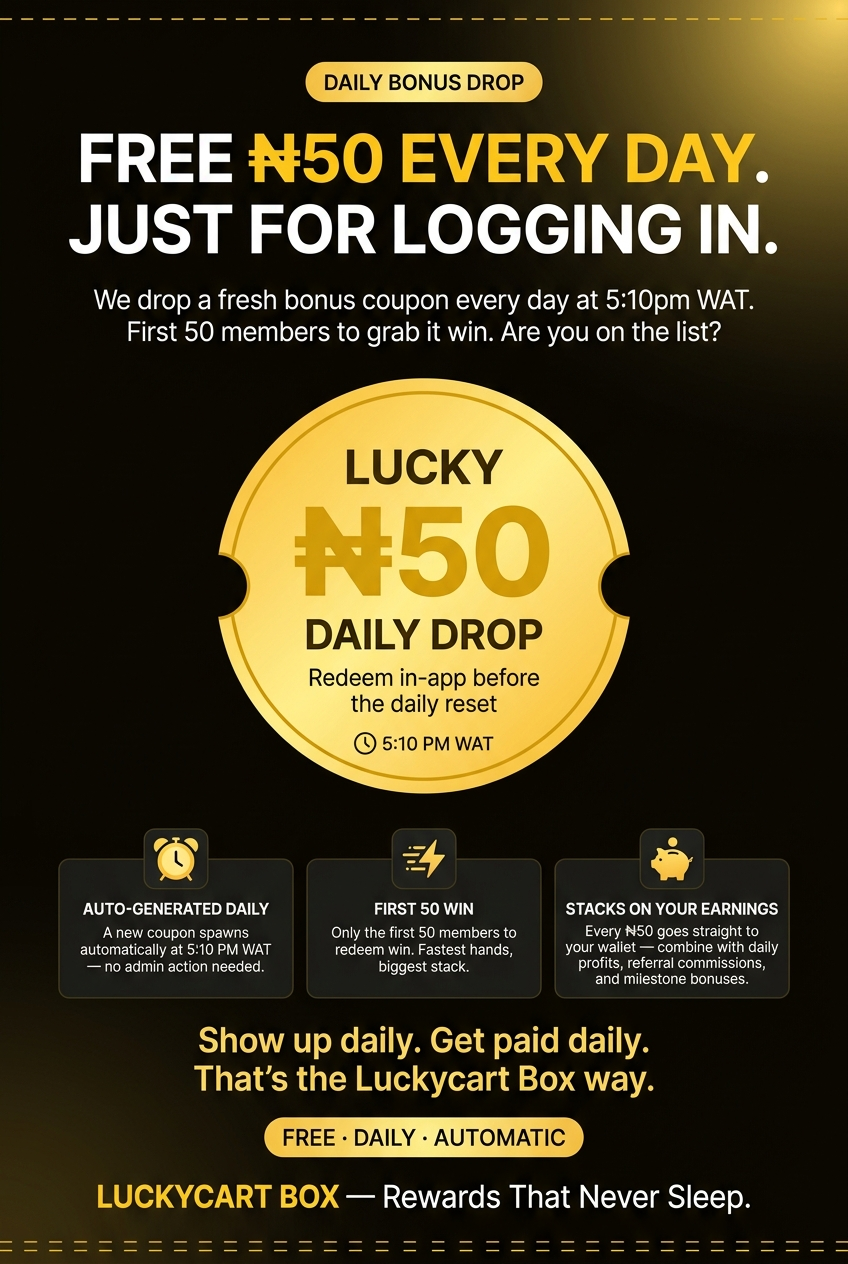
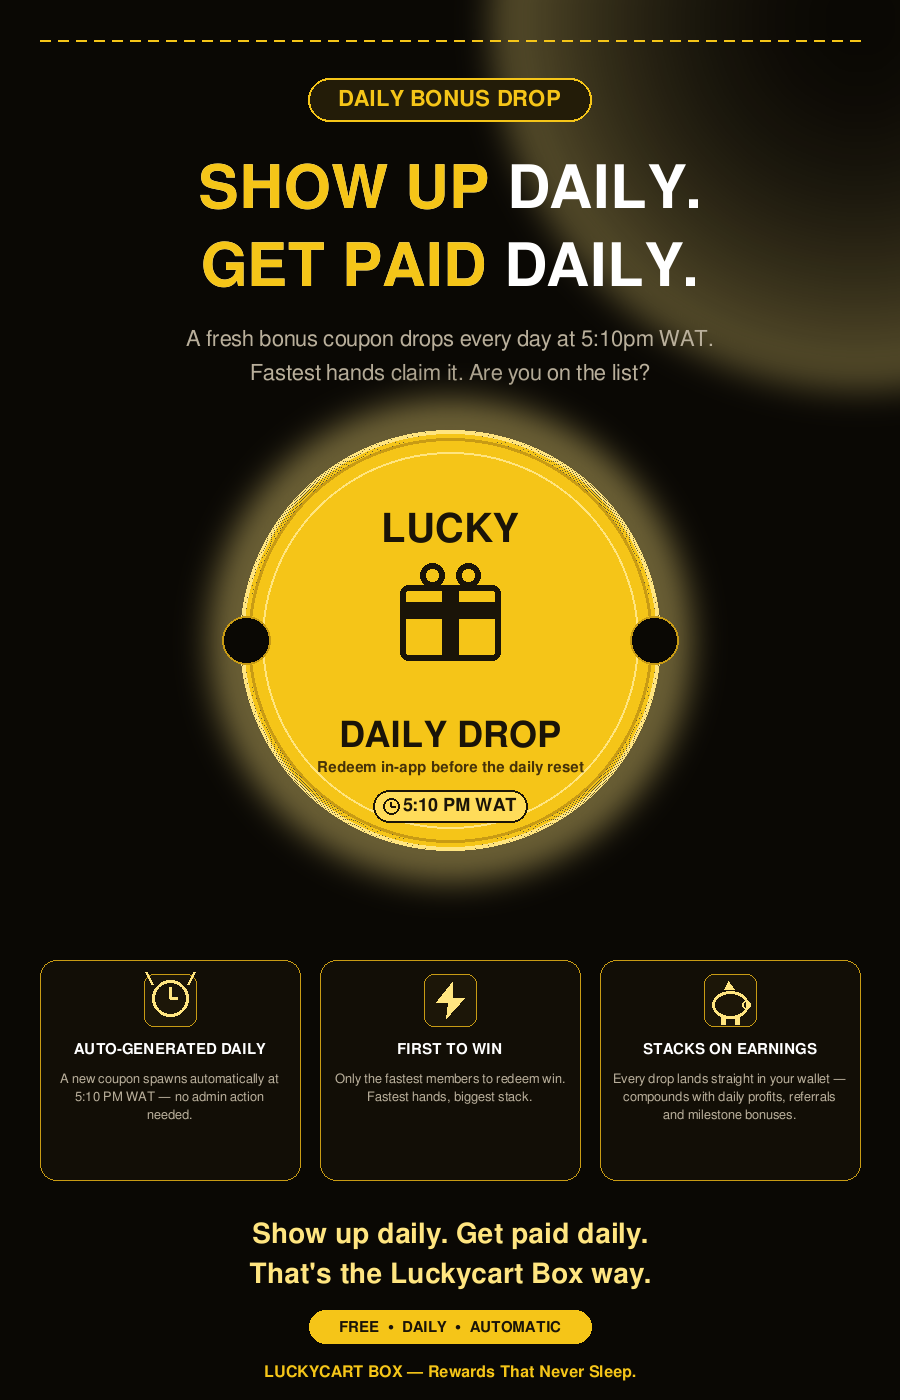
auto-commit for 5e001a3c-c507-4ebd-9de1-6f0cb7676483

diff --git a/render_daily_bonus_flyer.py b/render_daily_bonus_flyer.py
@@ -1,0 +1,291 @@
+"""
+render_daily_bonus_flyer.py
+--------------------------------------------------------------
+Deterministic Pillow renderer for the "Daily Bonus Drop" flyer.
+
+Design decision: the previous AI-generated version hard-coded
+"₦50" everywhere, which anchors users to a fixed number and
+locks the ops team out of adjusting the coupon amount. This
+version keeps every callout amount-agnostic — the actual naira
+value only lives in Admin Settings and shows up in-app on the
+Dashboard's DailyBonusCard.
+
+Output: /app/generated_flyers/luckycart_08_daily_bonus.png
+"""
+from pathlib import Path
+from PIL import Image, ImageDraw, ImageFilter
+
+OUT = Path("/app/generated_flyers/luckycart_08_daily_bonus.png")
+W, H = 900, 1400
+BG = (10, 8, 4)
+CARD = (18, 14, 6)
+GOLD = (245, 197, 24)
+GOLD_LIGHT = (255, 229, 128)
+GOLD_DIM = (200, 155, 20)
+WHITE = (255, 255, 255)
+MUTED = (185, 175, 155)
+DARK_BROWN = (26, 20, 8)
+
+FONT_DIR = "/usr/share/fonts/truetype/freefont"
+F_BOLD = f"{FONT_DIR}/FreeSansBold.ttf"
+F_REG = f"{FONT_DIR}/FreeSans.ttf"
+
+from PIL import ImageFont
+def font(size, path=F_BOLD):
+    return ImageFont.truetype(path, size)
+
+
+def paint_glow(img, cx, cy, r, color, alpha=110):
+    glow = Image.new("RGBA", (r * 4, r * 4), (0, 0, 0, 0))
+    gd = ImageDraw.Draw(glow)
+    for i in range(r, 0, -6):
+        a = int(alpha * (i / r) ** 2)
+        gd.ellipse([r * 2 - i, r * 2 - i, r * 2 + i, r * 2 + i], fill=color + (a,))
+    glow = glow.filter(ImageFilter.GaussianBlur(20))
+    img.alpha_composite(glow, (cx - r * 2, cy - r * 2))
+
+
+def draw_dashed_line(draw, x0, y0, x1, y1, dash=10, gap=8, color=GOLD, width=2):
+    x = x0
+    while x < x1:
+        draw.line([(x, y0), (min(x + dash, x1), y0)], fill=color, width=width)
+        x += dash + gap
+
+
+def draw_alarm_icon(draw, cx, cy, s=24, color=GOLD):
+    """Simple alarm-clock outline."""
+    draw.ellipse([cx - s, cy - s, cx + s, cy + s], outline=color, width=3)
+    # bells
+    draw.line([(cx - s, cy - s + 4), (cx - s - 6, cy - s - 8)], fill=color, width=3)
+    draw.line([(cx + s, cy - s + 4), (cx + s + 6, cy - s - 8)], fill=color, width=3)
+    # hands
+    draw.line([(cx, cy), (cx, cy - s // 2 - 2)], fill=color, width=3)
+    draw.line([(cx, cy), (cx + s // 2 - 2, cy)], fill=color, width=3)
+
+
+def draw_bolt_icon(draw, cx, cy, s=18, color=GOLD):
+    """Lightning bolt."""
+    poly = [
+        (cx + 2, cy - s),
+        (cx - s + 4, cy + 2),
+        (cx - 2, cy + 2),
+        (cx - 4, cy + s),
+        (cx + s - 4, cy - 2),
+        (cx + 2, cy - 2),
+    ]
+    draw.polygon(poly, fill=color)
+
+
+def draw_piggy_icon(draw, cx, cy, s=22, color=GOLD):
+    """Piggy-bank silhouette."""
+    # body
+    draw.ellipse([cx - s, cy - s // 2, cx + s, cy + s], outline=color, width=3)
+    # snout
+    draw.ellipse([cx + s - 6, cy, cx + s + 2, cy + s // 2], outline=color, width=2)
+    # legs
+    draw.rectangle([cx - s // 2, cy + s - 2, cx - s // 2 + 4, cy + s + 6], fill=color)
+    draw.rectangle([cx + s // 2 - 4, cy + s - 2, cx + s // 2, cy + s + 6], fill=color)
+    # ear
+    draw.polygon([(cx - 6, cy - s // 2 - 2), (cx + 4, cy - s // 2 - 2), (cx - 2, cy - s // 2 - 10)], fill=color)
+
+
+def draw_coin(img, d, cx, cy, r):
+    """Big gold coin — outer bevel, notches, centered content."""
+    # outer glow
+    paint_glow(img, cx, cy, r + 40, GOLD_LIGHT, alpha=140)
+    # outer ring (gradient by concentric)
+    for i in range(r, r - 8, -1):
+        # subtle bevel
+        d.ellipse([cx - i, cy - i, cx + i, cy + i], outline=GOLD_LIGHT if i > r - 4 else GOLD, width=1)
+    # main disc
+    d.ellipse([cx - (r - 8), cy - (r - 8), cx + (r - 8), cy + (r - 8)], fill=GOLD, outline=GOLD_DIM, width=3)
+    # inner bevel line
+    d.ellipse([cx - (r - 22), cy - (r - 22), cx + (r - 22), cy + (r - 22)], outline=GOLD_LIGHT, width=2)
+    # left/right notches (like the reference image)
+    notch_r = 24
+    d.ellipse([cx - r - notch_r + 6, cy - notch_r, cx - r + notch_r + 6, cy + notch_r], fill=BG, outline=GOLD_DIM, width=2)
+    d.ellipse([cx + r - notch_r - 6, cy - notch_r, cx + r + notch_r - 6, cy + notch_r], fill=BG, outline=GOLD_DIM, width=2)
+
+
+def render():
+    img = Image.new("RGBA", (W, H), BG + (255,))
+    d = ImageDraw.Draw(img)
+
+    # top-right sunburst
+    paint_glow(img, W - 40, 20, 380, GOLD_LIGHT, alpha=90)
+    # top dashed accent line
+    draw_dashed_line(d, 40, 40, W - 40, 40, dash=10, gap=8, color=GOLD, width=2)
+
+    # ---- header pill ----
+    pill_text = "DAILY BONUS DROP"
+    pf = font(22)
+    tw, th = d.textbbox((0, 0), pill_text, font=pf)[2:]
+    pill_x0 = (W - tw - 60) // 2
+    pill_y0 = 78
+    d.rounded_rectangle(
+        [pill_x0, pill_y0, pill_x0 + tw + 60, pill_y0 + th + 24],
+        radius=28, fill=(35, 28, 8), outline=GOLD, width=2,
+    )
+    d.text((pill_x0 + 30, pill_y0 + 10), pill_text, font=pf, fill=GOLD)
+
+    # ---- hero title (2 lines, mixed white + gold accent) ----
+    hf = font(60)
+    hero_lines = [
+        ("SHOW UP DAILY.", [(0, 7, GOLD)]),    # "SHOW UP" in gold
+        ("GET PAID DAILY.", [(0, 8, GOLD)]),   # "GET PAID" in gold
+    ]
+    for i, (line, ranges) in enumerate(hero_lines):
+        y = 160 + i * 78
+        lw = d.textbbox((0, 0), line, font=hf)[2]
+        x = (W - lw) // 2
+        d.text((x, y), line, font=hf, fill=WHITE)
+        for a, b, col in ranges:
+            seg = line[a:b]
+            pw = d.textbbox((0, 0), line[:a], font=hf)[2]
+            d.text((x + pw, y), seg, font=hf, fill=col)
+
+    # ---- subtitle ----
+    sub_lines = [
+        "A fresh bonus coupon drops every day at 5:10pm WAT.",
+        "Fastest hands claim it. Are you on the list?",
+    ]
+    sf = font(22, F_REG)
+    for i, ln in enumerate(sub_lines):
+        lw = d.textbbox((0, 0), ln, font=sf)[2]
+        d.text(((W - lw) // 2, 328 + i * 34), ln, font=sf, fill=MUTED)
+
+    # ---- gold coin ----
+    coin_cx = W // 2
+    coin_cy = 640
+    coin_r = 210
+    draw_coin(img, d, coin_cx, coin_cy, coin_r)
+
+    # inside coin: LUCKY / gift icon / DAILY DROP / redeem line / time
+    tf = font(40)
+    d.text_line = None  # noqa (just to keep tools happy)
+    # "LUCKY"
+    lucky = "LUCKY"
+    lw = d.textbbox((0, 0), lucky, font=tf)[2]
+    d.text((coin_cx - lw // 2, coin_cy - 130), lucky, font=tf, fill=DARK_BROWN)
+
+    # Gift / present icon (centered, replaces the ₦50)
+    gift_cx = coin_cx
+    gift_cy = coin_cy - 30
+    gs = 50
+    # box
+    d.rounded_rectangle([gift_cx - gs, gift_cy - gs // 2, gift_cx + gs, gift_cy + gs], radius=8, outline=DARK_BROWN, width=6)
+    # ribbon vertical
+    d.rectangle([gift_cx - 8, gift_cy - gs // 2, gift_cx + 8, gift_cy + gs], fill=DARK_BROWN)
+    # ribbon horizontal
+    d.rectangle([gift_cx - gs, gift_cy - 8, gift_cx + gs, gift_cy + 8], fill=DARK_BROWN)
+    # bow
+    d.ellipse([gift_cx - 30, gift_cy - gs // 2 - 22, gift_cx - 6, gift_cy - gs // 2 + 2], outline=DARK_BROWN, width=6)
+    d.ellipse([gift_cx + 6, gift_cy - gs // 2 - 22, gift_cx + 30, gift_cy - gs // 2 + 2], outline=DARK_BROWN, width=6)
+
+    # "DAILY DROP"
+    dd = "DAILY DROP"
+    df_ = font(36)
+    lw = d.textbbox((0, 0), dd, font=df_)[2]
+    d.text((coin_cx - lw // 2, coin_cy + 78), dd, font=df_, fill=DARK_BROWN)
+
+    # redeem line (small)
+    redeem = "Redeem in-app before the daily reset"
+    rf = font(15)
+    lw = d.textbbox((0, 0), redeem, font=rf)[2]
+    d.text((coin_cx - lw // 2, coin_cy + 120), redeem, font=rf, fill=(70, 50, 8))
+
+    # time chip inside coin
+    time_txt = "  5:10 PM WAT"
+    tcf = font(18)
+    tw = d.textbbox((0, 0), time_txt, font=tcf)[2]
+    tcx0 = coin_cx - (tw + 30) // 2
+    tcy0 = coin_cy + 150
+    d.rounded_rectangle([tcx0, tcy0, tcx0 + tw + 30, tcy0 + 32], radius=16, outline=DARK_BROWN, width=2, fill=(255, 220, 90))
+    # clock glyph
+    d.ellipse([tcx0 + 10, tcy0 + 8, tcx0 + 26, tcy0 + 24], outline=DARK_BROWN, width=2)
+    d.line([(tcx0 + 18, tcy0 + 16), (tcx0 + 18, tcy0 + 12)], fill=DARK_BROWN, width=2)
+    d.line([(tcx0 + 18, tcy0 + 16), (tcx0 + 22, tcy0 + 16)], fill=DARK_BROWN, width=2)
+    d.text((tcx0 + 30, tcy0 + 6), time_txt.strip(), font=tcf, fill=DARK_BROWN)
+
+    # ---- 3 feature cards ----
+    grid_top = 960
+    card_w = 260
+    card_h = 220
+    gap_x = 20
+    left_x = (W - (card_w * 3 + gap_x * 2)) // 2
+    feats = [
+        ("alarm", "AUTO-GENERATED DAILY", "A new coupon spawns automatically at 5:10 PM WAT — no admin action needed."),
+        ("bolt",  "FIRST TO WIN",         "Only the fastest members to redeem win. Fastest hands, biggest stack."),
+        ("piggy", "STACKS ON EARNINGS",   "Every drop lands straight in your wallet — compounds with daily profits, referrals and milestone bonuses."),
+    ]
+    for i, (kind, title, body) in enumerate(feats):
+        x0 = left_x + i * (card_w + gap_x)
+        y0 = grid_top
+        x1 = x0 + card_w
+        y1 = y0 + card_h
+        d.rounded_rectangle([x0, y0, x1, y1], radius=16, fill=CARD, outline=GOLD_DIM, width=1)
+        # icon tile
+        icon_x = x0 + card_w // 2
+        icon_y = y0 + 40
+        d.rounded_rectangle([icon_x - 26, icon_y - 26, icon_x + 26, icon_y + 26],
+                            radius=10, fill=(28, 22, 8), outline=GOLD_DIM, width=1)
+        if kind == "alarm":
+            draw_alarm_icon(d, icon_x, icon_y - 2, s=18, color=GOLD_LIGHT)
+        elif kind == "bolt":
+            draw_bolt_icon(d, icon_x, icon_y, s=18, color=GOLD_LIGHT)
+        else:
+            draw_piggy_icon(d, icon_x, icon_y, s=18, color=GOLD_LIGHT)
+        # title
+        tf = font(15)
+        tw = d.textbbox((0, 0), title, font=tf)[2]
+        d.text((x0 + (card_w - tw) // 2, y0 + 82), title, font=tf, fill=WHITE)
+        # body (naive wrap: split on words to width)
+        body_words = body.split()
+        bf = font(13, F_REG)
+        cur = ""
+        line_y = y0 + 112
+        max_body_w = card_w - 24
+        for w in body_words:
+            probe = (cur + " " + w).strip()
+            if d.textbbox((0, 0), probe, font=bf)[2] > max_body_w:
+                lw = d.textbbox((0, 0), cur, font=bf)[2]
+                d.text((x0 + (card_w - lw) // 2, line_y), cur, font=bf, fill=MUTED)
+                line_y += 18
+                cur = w
+            else:
+                cur = probe
+        if cur:
+            lw = d.textbbox((0, 0), cur, font=bf)[2]
+            d.text((x0 + (card_w - lw) // 2, line_y), cur, font=bf, fill=MUTED)
+
+    # ---- closing banner ----
+    banner1 = "Show up daily. Get paid daily."
+    banner2 = "That's the Luckycart Box way."
+    bf = font(28)
+    for i, ln in enumerate([banner1, banner2]):
+        lw = d.textbbox((0, 0), ln, font=bf)[2]
+        d.text(((W - lw) // 2, 1220 + i * 40), ln, font=bf, fill=GOLD_LIGHT)
+
+    # trust pill
+    pill_text = "FREE  •  DAILY  •  AUTOMATIC"
+    tpf = font(15)
+    tpw, tph = d.textbbox((0, 0), pill_text, font=tpf)[2:]
+    px0 = (W - tpw - 60) // 2
+    py0 = 1310
+    d.rounded_rectangle([px0, py0, px0 + tpw + 60, py0 + tph + 20],
+                        radius=24, fill=GOLD, outline=None)
+    d.text((px0 + 30, py0 + 10), pill_text, font=tpf, fill=DARK_BROWN)
+
+    # brand line
+    brand = "LUCKYCART BOX — Rewards That Never Sleep."
+    brf = font(16)
+    bw = d.textbbox((0, 0), brand, font=brf)[2]
+    d.text(((W - bw) // 2, 1364), brand, font=brf, fill=GOLD)
+
+    OUT.parent.mkdir(parents=True, exist_ok=True)
+    img.convert("RGB").save(OUT, format="PNG", optimize=True)
+    print(f"Wrote {OUT} ({OUT.stat().st_size} bytes)")
+
+
+if __name__ == "__main__":
+    render()
